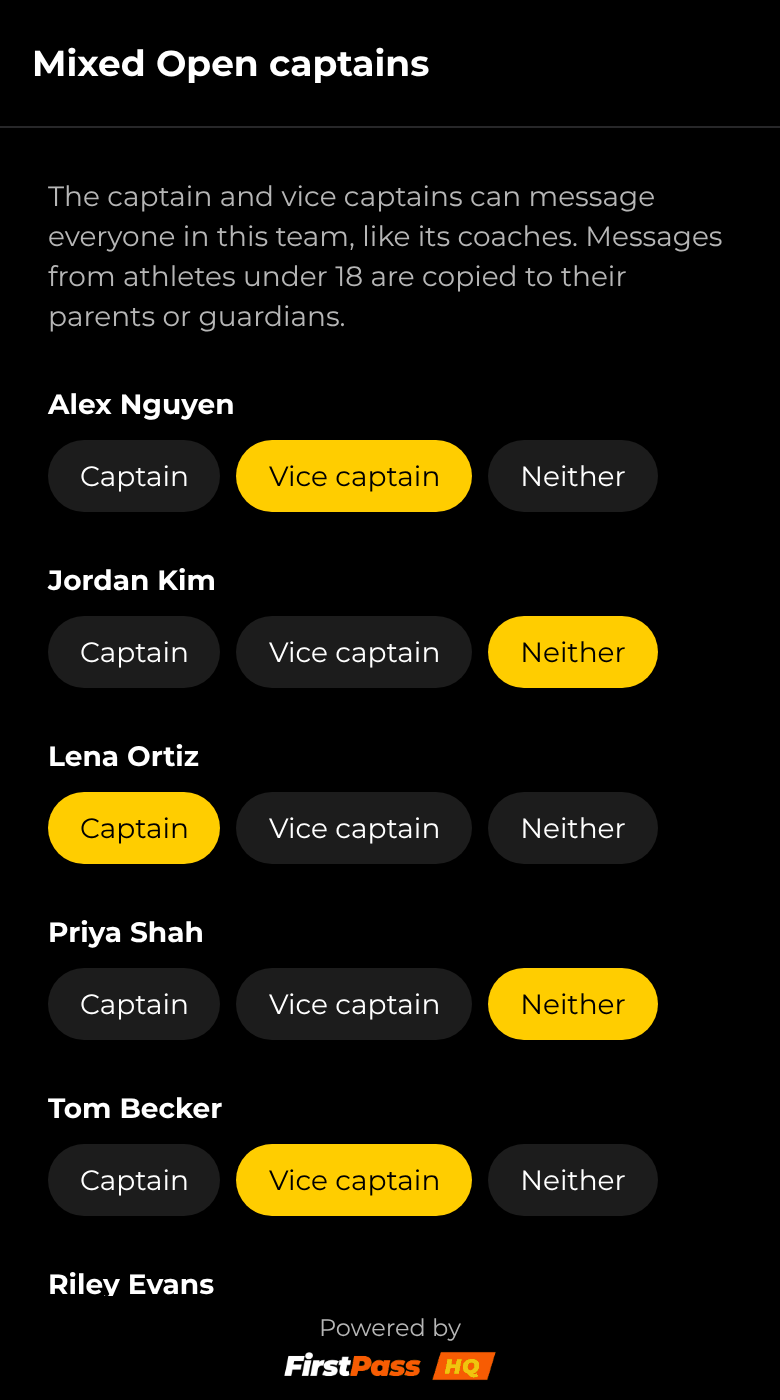
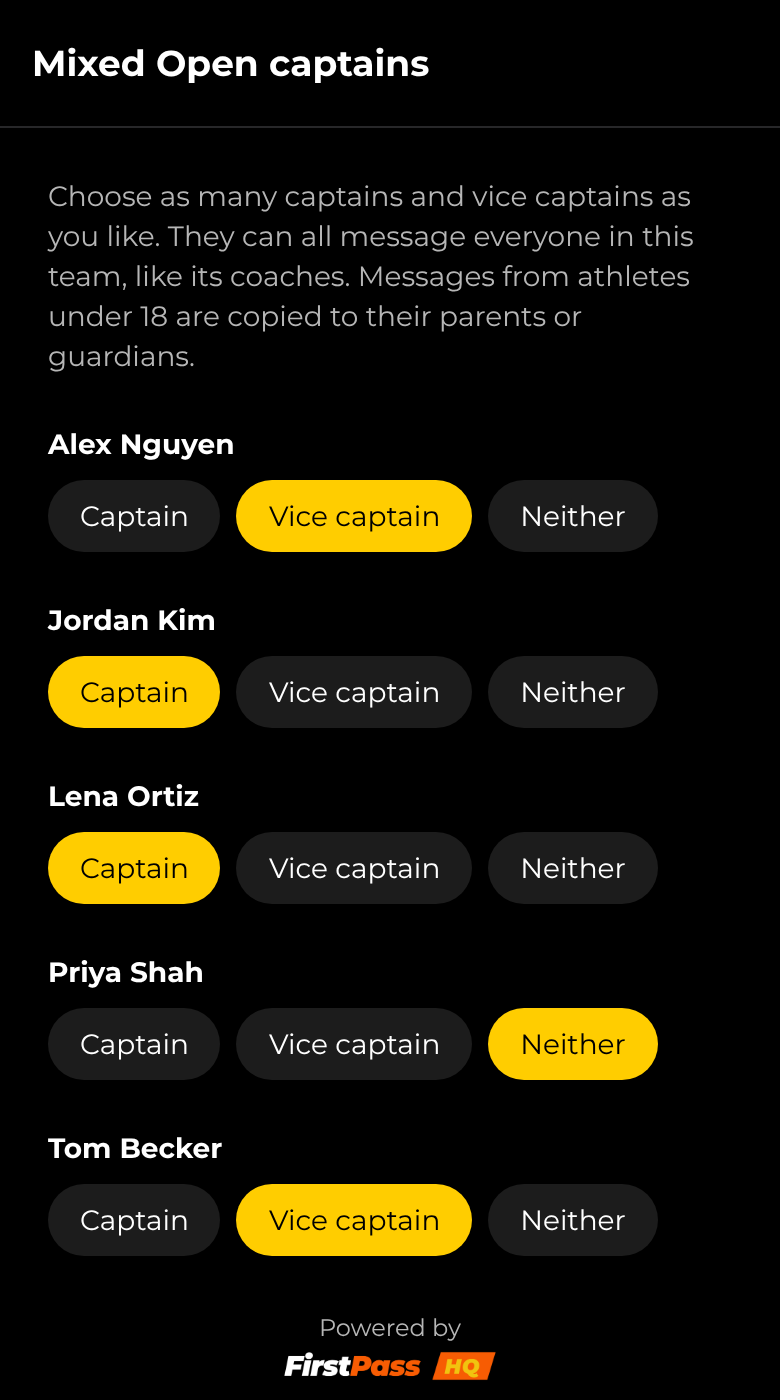
Any number of captains and vice captains per squad or team
Picking a captain no longer turns the existing captain into Neither, so a
coach can have co-captains with no vice captains, or one captain and four
vice captains. A new migration drops the one-captain index (no data) and
adds set_group_captains taking a list of captains; the old one-captain
version stays for app builds that haven't updated. Every captain and vice
captain can still message the group.

Claude-Session: https://claude.ai/code/session_01VkAB2bM3aQsUKeRyUrbUvg

Changed region(s): [[0.0615, 0.1229, 0.9231, 0.9214]]

diff --git a/src/app/team/captains/[id].tsx b/src/app/team/captains/[id].tsx
@@ -20,7 +20,7 @@ const options: { value: Pick; label: string }[] = [
 ];
 
 /**
- * Admins and a squad or team's coaches choose its captain and vice captains,
+ * Admins and a squad or team's coaches choose its captains and vice captains,
  * who can then message the group like its coaches.
  */
 export default function ChooseCaptainsScreen() {
@@ -55,17 +55,9 @@ export default function ChooseCaptainsScreen() {
     })();
   }, [id]);
 
+  // Any number of captains and vice captains: it's up to the coach.
   function choose(profileId: string, pick: Pick) {
-    setPicks((current) => {
-      const next = { ...current, [profileId]: pick };
-      // One captain: picking a new one makes the old one neither.
-      if (pick === 'captain') {
-        for (const [other, value] of Object.entries(current)) {
-          if (other !== profileId && value === 'captain') next[other] = 'none';
-        }
-      }
-      return next;
-    });
+    setPicks((current) => ({ ...current, [profileId]: pick }));
   }
 
   async function save() {
@@ -74,7 +66,7 @@ export default function ChooseCaptainsScreen() {
     const entries = Object.entries(picks);
     const { error: rpcError } = await supabase.rpc('set_group_captains', {
       p_team_id: id,
-      p_captain_id: entries.find(([, pick]) => pick === 'captain')?.[0] ?? null,
+      p_captain_ids: entries.filter(([, pick]) => pick === 'captain').map(([pid]) => pid),
       p_vice_captain_ids: entries.filter(([, pick]) => pick === 'vice_captain').map(([pid]) => pid),
     });
     setSaving(false);
@@ -93,8 +85,8 @@ export default function ChooseCaptainsScreen() {
     <Screen>
       <Stack.Screen options={{ title: team ? `${team.name} captains` : 'Captains' }} />
       <ThemedText type="small" themeColor="textSecondary">
-        The captain and vice captains can message everyone in this{' '}
-        {team?.kind === 'squad' ? 'squad' : 'team'}, like its coaches. Messages from athletes under
+        Choose as many captains and vice captains as you like. They can all message everyone in
+        this {team?.kind === 'squad' ? 'squad' : 'team'}, like its coaches. Messages from athletes under
         18 are copied to their parents or guardians.
       </ThemedText>
 

diff --git a/docs/user-guide.md b/docs/user-guide.md
@@ -65,7 +65,7 @@ those roles would show on its own.
 <img src="user-guide/home-two-roles.png" width="210" alt="Home screen of a coach who is also a guardian">
 
 **Captains.** Admins choose **club captains** from the season's athletes, and admins or a squad or
-team's coaches choose its **captain** and **vice captains**. Captains stay athletes; captaincy only
+team's coaches choose its **captains** and **vice captains**. Captains stay athletes; captaincy only
 adds the right to send messages. Club captains can message the whole club, and captains and vice
 captains can message their own squad or team. Captaincy ends when the season is archived.
 
@@ -539,18 +539,18 @@ and hasn't read it. Club admins can read every message.
 
 ### Choosing captains
 
-Coaches choose the captain and vice captains of the squads and teams they coach (admins can too).
+Coaches choose the captains and vice captains of the squads and teams they coach (admins can too).
 Open the squad or team from **My squads and teams** and tap **Choose captains** at the bottom. For
 each athlete choose **Captain**, **Vice captain** or **Neither**, then tap **Save captains**. A
-group has one captain and any number of vice captains; picking a new captain makes the old one
-**Neither**.
+group can have any number of captains and any number of vice captains, so it's up to you: co-captains
+and no vice captains, one captain and four vice captains, or anything in between.
 
 Captains and vice captains can then message everyone in that squad or team, like you. They must be
 athletes in it, and they stop being able to message it if they leave it or the season is archived.
 Messages from captains under 18 are copied to their parents or guardians.
 
 <img src="user-guide/captains-team-roster.png" width="210" alt="Team roster with Choose captains">
-<img src="user-guide/captains-choose.png" width="210" alt="Choosing a team's captain and vice captains">
+<img src="user-guide/captains-choose.png" width="210" alt="Choosing a team's captains and vice captains">
 
 ### Athletes' check-ins
 
@@ -1075,7 +1075,7 @@ captains can message everyone in the club until that season is archived; choose 
 season. If last season is still running alongside the new one, pick the season first. Athletes
 under 18 are marked, and their parents or guardians get a copy of everything they send.
 
-Admins can also choose any squad or team's captain and vice captains, the same way coaches do (see
+Admins can also choose any squad or team's captains and vice captains, the same way coaches do (see
 [Choosing captains](#choosing-captains)).
 
 <img src="user-guide/club-captains.png" width="210" alt="Choosing the club captains">
